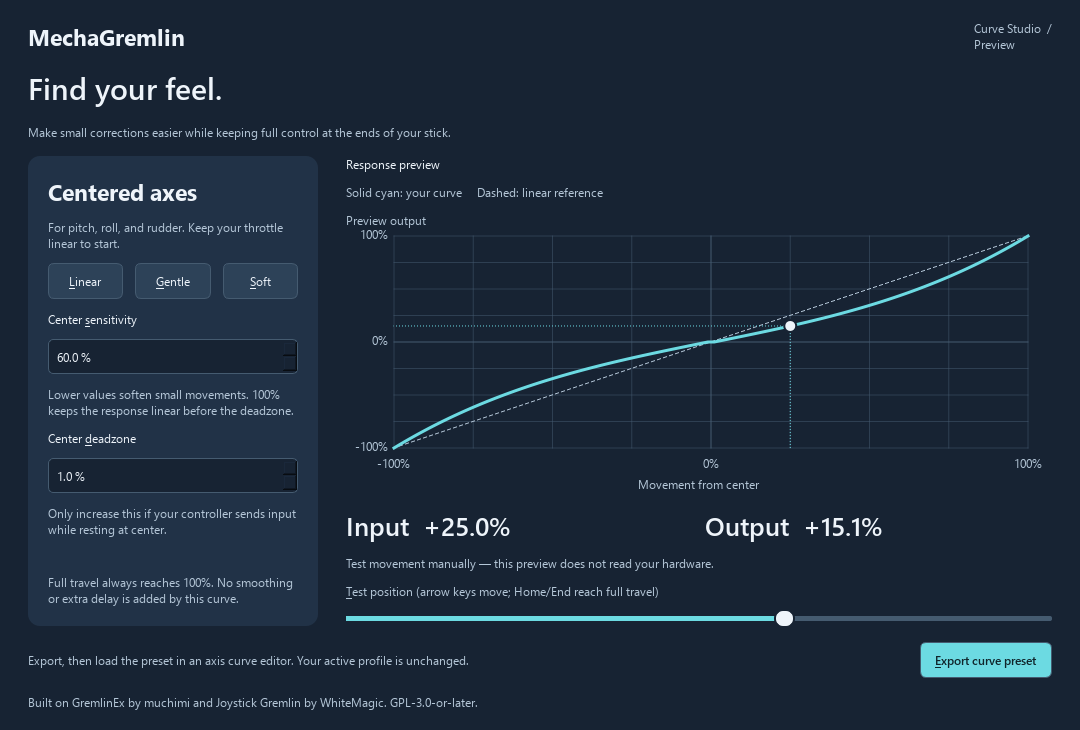
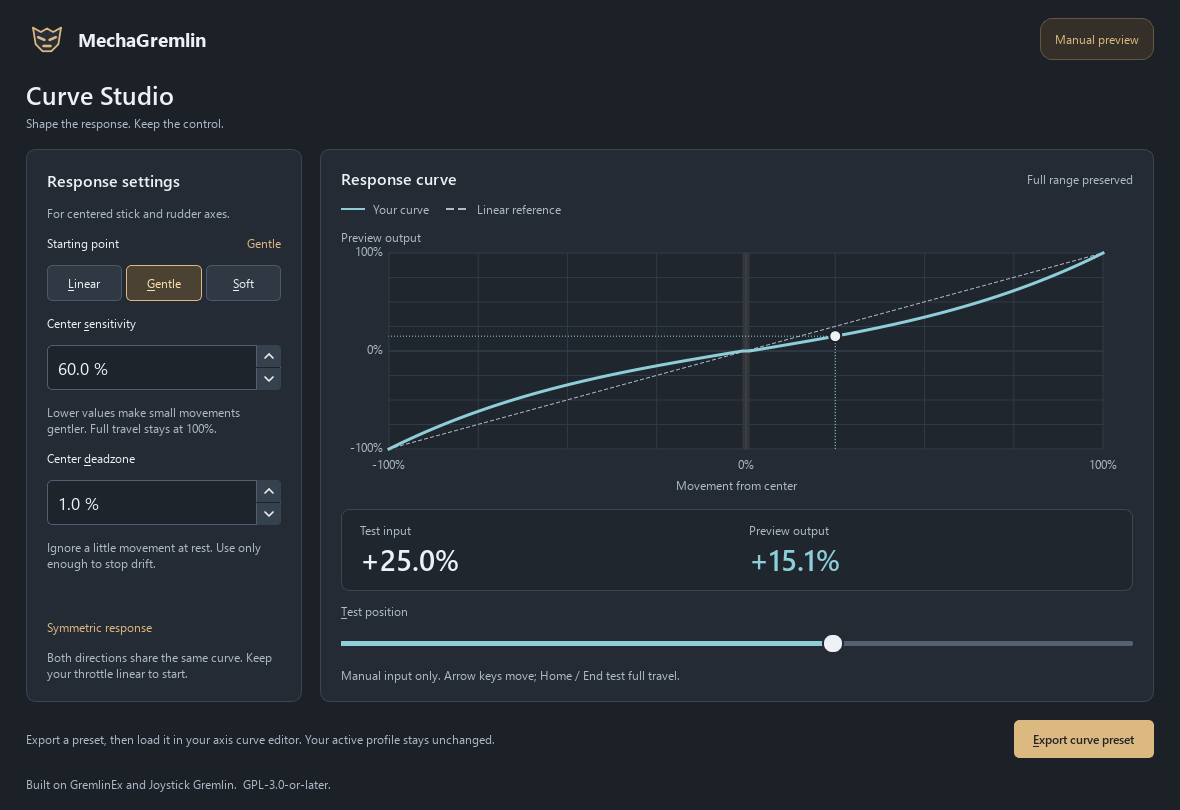
design: refine Curve Studio with MechaGremlin visual identity

diff --git a/mechagremlin/studio.py b/mechagremlin/studio.py
@@ -5,28 +5,7 @@ from pathlib import Path
 from PySide6 import QtCore, QtGui, QtWidgets
 from mechagremlin.curves import Curve
 
-PALETTE = {"base": "#172333", "panel": "#213247", "border": "#455b70",
-           "text": "#eef4fa", "muted": "#b5c7d8", "curve": "#6cdae2"}
-STYLE = """
-QWidget#curveStudio { background: #172333; color: #eef4fa; }
-QWidget#curveStudio QScrollArea, QWidget#curveStudio QWidget#studioContent { background: #172333; border: none; }
-QWidget#curveStudio QLabel { color: #eef4fa; background: transparent; }
-QWidget#curveStudio QLabel[role="muted"] { color: #b5c7d8; }
-QWidget#curveStudio QLabel[role="brand"] { font-size: 23px; font-weight: 700; }
-QWidget#curveStudio QLabel[role="title"] { font-size: 30px; font-weight: 600; }
-QWidget#curveStudio QLabel[role="reading"] { font-size: 26px; font-weight: 600; }
-QWidget#curveStudio QFrame#controls { background: #213247; border-radius: 12px; }
-QWidget#curveStudio QPushButton { background: #2d4258; color: #eef4fa; border: 1px solid #455b70; border-radius: 6px; padding: 9px 14px; }
-QWidget#curveStudio QPushButton:hover { background: #3a536c; }
-QWidget#curveStudio QPushButton:focus { border: 2px solid #6cdae2; }
-QWidget#curveStudio QPushButton[primary="true"] { background: #6cdae2; color: #10252b; font-weight: 600; }
-QWidget#curveStudio QDoubleSpinBox { background: #172333; color: #eef4fa; border: 1px solid #455b70; border-radius: 5px; padding: 6px; }
-QWidget#curveStudio QDoubleSpinBox:focus { border: 2px solid #6cdae2; }
-QWidget#curveStudio QSlider::groove:horizontal { height: 5px; background: #455b70; border-radius: 2px; }
-QWidget#curveStudio QSlider::sub-page:horizontal { background: #6cdae2; }
-QWidget#curveStudio QSlider::handle:horizontal { background: #eef4fa; border: 2px solid #172333; width: 17px; margin: -7px 0; border-radius: 9px; }
-QWidget#curveStudio QSlider:focus { border: 1px solid #6cdae2; }
-"""
+from mechagremlin.theme import ASSETS, PALETTE, STYLE
 
 
 def label(text, role=None):
@@ -42,22 +21,29 @@ class CurveGraph(QtWidgets.QWidget):
         super().__init__(parent)
         self.curve = Curve()
         self.input_value = 0.25
-        self.setMinimumSize(320, 280)
+        self.setMinimumSize(320, 240)
         self.setSizePolicy(QtWidgets.QSizePolicy.Policy.Expanding, QtWidgets.QSizePolicy.Policy.Expanding)
         self.setAccessibleName("Response curve graph; numeric input and output are shown below")
 
     def paintEvent(self, event):
         painter = QtGui.QPainter(self)
         painter.setRenderHint(QtGui.QPainter.RenderHint.Antialiasing)
-        bounds = QtCore.QRectF(48, 24, self.width() - 72, self.height() - 72)
+        bounds = QtCore.QRectF(48, 24, self.width() - 78, self.height() - 72)
 
         def point(x, y):
             return QtCore.QPointF(bounds.left() + (x + 1) * bounds.width() / 2,
                                  bounds.bottom() - (y + 1) * bounds.height() / 2)
 
+        painter.fillRect(bounds, QtGui.QColor(PALETTE["plot"]))
+        if self.curve.deadzone:
+            left = point(-self.curve.deadzone, 0).x()
+            right = point(self.curve.deadzone, 0).x()
+            band = QtGui.QColor(PALETTE["accent"])
+            band.setAlpha(28)
+            painter.fillRect(QtCore.QRectF(left, bounds.top(), right-left, bounds.height()), band)
         for n in range(-4, 5):
             value = n / 4
-            painter.setPen(QtGui.QPen(QtGui.QColor(PALETTE["border"]), 1 if n == 0 else 0.5))
+            painter.setPen(QtGui.QPen(QtGui.QColor(PALETTE["border"] if n == 0 else PALETTE["grid"]), 1))
             painter.drawLine(point(value, -1), point(value, 1))
             painter.drawLine(point(-1, value), point(1, value))
         painter.setPen(QtGui.QPen(QtGui.QColor(PALETTE["muted"]), 1, QtCore.Qt.PenStyle.DashLine))
@@ -90,13 +76,15 @@ class CurveStudio(QtWidgets.QDialog):
         super().__init__(parent)
         self.setObjectName("curveStudio")
         self.setWindowTitle("MechaGremlin | Curve Studio")
+        self.setWindowIcon(QtGui.QIcon(str(ASSETS / "mecha-mark.svg")))
         self.setFont(QtGui.QFont("Segoe UI", 10))
         self.setStyleSheet(STYLE)
-        self.resize(1080, 730)
+        self.resize(1180, 810)
         self.setMinimumSize(780, 680)
         viewport_layout = QtWidgets.QVBoxLayout(self)
         viewport_layout.setContentsMargins(0, 0, 0, 0)
         self.scroll = QtWidgets.QScrollArea()
+        self.scroll.setObjectName("studioScroll")
         self.scroll.setWidgetResizable(True)
         self.scroll.setFrameShape(QtWidgets.QFrame.Shape.NoFrame)
         self.scroll.setAccessibleName("Curve Studio content")
@@ -106,69 +94,133 @@ class CurveStudio(QtWidgets.QDialog):
         outer.setSizeConstraint(QtWidgets.QLayout.SizeConstraint.SetMinimumSize)
         self.scroll.setWidget(self.content)
         viewport_layout.addWidget(self.scroll)
-        outer.setContentsMargins(28, 20, 28, 20)
-        outer.setSpacing(16)
+        outer.setContentsMargins(26, 18, 26, 18)
+        outer.setSpacing(18)
+
         header = QtWidgets.QHBoxLayout()
+        header.setSpacing(10)
+        mark = QtWidgets.QLabel()
+        mark.setPixmap(self.windowIcon().pixmap(42, 42))
+        mark.setFixedSize(42, 42)
+        mark.setAccessibleName("MechaGremlin emblem")
+        header.addWidget(mark)
         header.addWidget(label("MechaGremlin", "brand"))
         header.addStretch()
-        header.addWidget(label("Curve Studio  /  Preview", "muted"))
+        badge = label("Manual preview", "badge")
+        badge.setWordWrap(False)
+        header.addWidget(badge)
         outer.addLayout(header)
-        outer.addWidget(label("Find your feel.", "title"))
-        outer.addWidget(label("Make small corrections easier while keeping full control at the ends of your stick.", "muted"))
+
+        heading = QtWidgets.QHBoxLayout()
+        title = QtWidgets.QVBoxLayout()
+        title.setSpacing(4)
+        title.addWidget(label("Curve Studio", "title"))
+        subtitle = label("Shape the response. Keep the control.", "muted")
+        subtitle.setWordWrap(False)
+        title.addWidget(subtitle)
+        heading.addLayout(title)
+        heading.addStretch()
+        outer.addLayout(heading)
+
         body = QtWidgets.QHBoxLayout()
-        body.setSpacing(28)
+        body.setSpacing(18)
         controls = QtWidgets.QFrame()
         controls.setObjectName("controls")
-        controls.setFixedWidth(290)
+        controls.setFixedWidth(276)
         settings = QtWidgets.QVBoxLayout(controls)
         settings.setContentsMargins(20, 20, 20, 20)
-        settings.setSpacing(12)
-        settings.addWidget(label("Centered axes", "brand"))
-        settings.addWidget(label("For pitch, roll, and rudder. Keep your throttle linear to start.", "muted"))
+        settings.setSpacing(14)
+        settings.addWidget(label("Response settings", "section"))
+        settings.addWidget(label("For centered stick and rudder axes.", "muted"))
+        preset_caption = QtWidgets.QHBoxLayout()
+        preset_caption.addWidget(label("Starting point"))
+        preset_caption.addStretch()
+        self.preset_state = label("Gentle", "accent")
+        preset_caption.addWidget(self.preset_state)
+        settings.addLayout(preset_caption)
         preset_row = QtWidgets.QHBoxLayout()
+        preset_row.setSpacing(4)
         self.presets = {}
-        for name, sensitivity in (("Linear", 100), ("Gentle", 60), ("Soft", 35)):
+        self.preset_values = {"Linear": 100, "Gentle": 60, "Soft": 35}
+        for name, sensitivity in self.preset_values.items():
             button = QtWidgets.QPushButton("&" + name)
             button.setAutoDefault(False)
+            button.setCheckable(True)
             button.setAccessibleName(name + " sensitivity preset")
             button.setToolTip(f"Set center sensitivity to {sensitivity}%. Keeps your deadzone unchanged.")
-            button.clicked.connect(lambda checked=False, s=sensitivity: self.sensitivity.setValue(s))
+            button.clicked.connect(lambda checked=False, s=sensitivity: self._select_preset(s))
             preset_row.addWidget(button)
             self.presets[name] = button
         settings.addLayout(preset_row)
         self.sensitivity = self._number(settings, "Center &sensitivity", 0, 100, 60)
-        settings.addWidget(label("Lower values soften small movements. 100% keeps the response linear before the deadzone.", "muted"))
+        settings.addWidget(label("Lower values make small movements gentler. Full travel stays at 100%.", "muted"))
         self.deadzone = self._number(settings, "Center &deadzone", 0, 25, 1)
-        settings.addWidget(label("Only increase this if your controller sends input while resting at center.", "muted"))
+        settings.addWidget(label("Ignore a little movement at rest. Use only enough to stop drift.", "muted"))
         settings.addStretch()
-        settings.addWidget(label("Full travel always reaches 100%. No smoothing or extra delay is added by this curve.", "muted"))
+        settings.addWidget(label("Symmetric response", "accent"))
+        settings.addWidget(label("Both directions share the same curve. Keep your throttle linear to start.", "muted"))
         body.addWidget(controls)
-        preview = QtWidgets.QVBoxLayout()
+
+        self.preview_panel = QtWidgets.QFrame()
+        self.preview_panel.setObjectName("previewPanel")
+        preview = QtWidgets.QVBoxLayout(self.preview_panel)
+        preview.setContentsMargins(20, 18, 20, 18)
         preview.setSpacing(12)
-        preview.addWidget(label("Response preview"))
-        preview.addWidget(label("Solid cyan: your curve     Dashed: linear reference", "muted"))
+        graph_header = QtWidgets.QHBoxLayout()
+        graph_header.addWidget(label("Response curve", "section"))
+        graph_header.addStretch()
+        graph_header.addWidget(label("Full range preserved", "muted"))
+        preview.addLayout(graph_header)
+        legend = QtWidgets.QHBoxLayout()
+        legend.setSpacing(8)
+        for text, color, style in (("Your curve", PALETTE["curve"], "solid"),
+                                   ("Linear reference", PALETTE["muted"], "dashed")):
+            swatch = QtWidgets.QFrame()
+            swatch.setFixedSize(24, 2)
+            swatch.setStyleSheet(f"background: transparent; border: none; border-top: 2px {style} {color};")
+            legend.addWidget(swatch)
+            caption = label(text, "muted")
+            caption.setWordWrap(False)
+            legend.addWidget(caption)
+            legend.addSpacing(8)
+        legend.addStretch()
+        preview.addLayout(legend)
         self.graph = CurveGraph()
         preview.addWidget(self.graph, 1)
-        values = QtWidgets.QHBoxLayout()
+
+        self.readouts = QtWidgets.QFrame()
+        self.readouts.setObjectName("readouts")
+        readings = QtWidgets.QHBoxLayout(self.readouts)
+        readings.setContentsMargins(18, 12, 18, 12)
+        readings.setSpacing(24)
         self.input_reading = label("", "reading")
         self.output_reading = label("", "reading")
-        values.addWidget(self.input_reading)
-        values.addWidget(self.output_reading)
-        preview.addLayout(values)
-        preview.addWidget(label("Test movement manually — this preview does not read your hardware.", "muted"))
+        self.output_reading.setObjectName("outputReading")
+        for caption, reading in (("Test input", self.input_reading), ("Preview output", self.output_reading)):
+            column = QtWidgets.QVBoxLayout()
+            column.setSpacing(2)
+            column.addWidget(label(caption, "muted"))
+            column.addWidget(reading)
+            readings.addLayout(column, 1)
+        preview.addWidget(self.readouts)
+
         self.test_input = QtWidgets.QSlider(QtCore.Qt.Orientation.Horizontal)
         self.test_input.setRange(-1000, 1000)
         self.test_input.setValue(250)
         self.test_input.setAccessibleName("Preview input position")
         self.test_input.setTickInterval(250)
-        movement_caption = label("&Test position (arrow keys move; Home/End reach full travel)", "muted")
+        self.test_input.setMinimumHeight(24)
+        movement_caption = label("&Test position", "muted")
         movement_caption.setBuddy(self.test_input)
         preview.addWidget(movement_caption)
         preview.addWidget(self.test_input)
-        body.addLayout(preview, 1)
+        preview.addWidget(label("Manual input only. Arrow keys move; Home / End test full travel.", "muted"))
+        body.addWidget(self.preview_panel, 1)
         outer.addLayout(body, 1)
+
         footer = QtWidgets.QHBoxLayout()
-        self.status = label("Export, then load the preset in an axis curve editor. Your active profile is unchanged.", "muted")
+        footer.setSpacing(24)
+        self.status = label("Export a preset, then load it in your axis curve editor. Your active profile stays unchanged.", "muted")
         footer.addWidget(self.status, 1)
         self.export_button = QtWidgets.QPushButton("&Export curve preset")
         self.export_button.setAutoDefault(False)
@@ -176,12 +228,17 @@ class CurveStudio(QtWidgets.QDialog):
         self.export_button.clicked.connect(self.export_preset)
         footer.addWidget(self.export_button)
         outer.addLayout(footer)
-        outer.addWidget(label("Built on GremlinEx by muchimi and Joystick Gremlin by WhiteMagic. GPL-3.0-or-later.", "muted"))
+        outer.addWidget(label("Built on GremlinEx and Joystick Gremlin.  GPL-3.0-or-later.", "muted"))
         for widget in (self.sensitivity, self.deadzone, self.test_input):
             widget.valueChanged.connect(self.refresh)
         tab_order = [*self.presets.values(), self.sensitivity, self.deadzone, self.test_input, self.export_button]
         for first, second in zip(tab_order, tab_order[1:]):
             self.setTabOrder(first, second)
+        self.refresh()
+
+    def _select_preset(self, sensitivity):
+        self.sensitivity.setValue(sensitivity)
+        # Re-assert selection even when clicking the already selected preset.
         self.refresh()
 
     def _number(self, layout, text, minimum, maximum, value):
@@ -204,8 +261,15 @@ class CurveStudio(QtWidgets.QDialog):
     def refresh(self):
         self.graph.curve = self.curve()
         self.graph.input_value = self.test_input.value()/1000
-        self.input_reading.setText(f"Input  {self.graph.input_value * 100:+.1f}%")
-        self.output_reading.setText(f"Output  {self.graph.curve.output(self.graph.input_value) * 100:+.1f}%")
+        self.input_reading.setText(f"{self.graph.input_value * 100:+.1f}%")
+        self.output_reading.setText(f"{self.graph.curve.output(self.graph.input_value) * 100:+.1f}%")
+        selected = "Custom"
+        for name, value in self.preset_values.items():
+            active = self.sensitivity.value() == value
+            self.presets[name].setChecked(active)
+            if active:
+                selected = name
+        self.preset_state.setText(selected)
         self.graph.update()
 
     def export_preset(self):

diff --git a/mechagremlin/theme.py b/mechagremlin/theme.py
@@ -1,0 +1,47 @@
+# SPDX-License-Identifier: GPL-3.0-or-later
+"""Visual tokens for MechaGremlin's native editing workspace."""
+from pathlib import Path
+
+ASSETS = Path(__file__).resolve().parent / "assets"
+PALETTE = {"base": "#1c2027", "panel": "#252b34", "plot": "#20262e",
+           "border": "#3b4653", "grid": "#303a46", "text": "#edf1f5",
+           "muted": "#aebac8", "curve": "#8dced8", "accent": "#dcb980"}
+
+STYLE = """
+QWidget#curveStudio, QWidget#studioContent, QScrollArea#studioScroll { background: #1c2027; color: #edf1f5; border: none; }
+QWidget#curveStudio { font-family: 'Segoe UI'; font-size: 13px; }
+QWidget#curveStudio QLabel { color: #edf1f5; background: transparent; border: none; }
+QWidget#curveStudio QLabel[role="muted"] { color: #aebac8; }
+QWidget#curveStudio QLabel[role="brand"] { font-size: 19px; font-weight: 700; }
+QWidget#curveStudio QLabel[role="title"] { font-size: 25px; font-weight: 600; }
+QWidget#curveStudio QLabel[role="section"] { font-size: 16px; font-weight: 600; }
+QWidget#curveStudio QLabel[role="badge"] { color: #dcb980; background: #343029; border: 1px solid #65573f; border-radius: 12px; padding: 5px 11px; }
+QWidget#curveStudio QLabel[role="accent"] { color: #dcb980; }
+QWidget#curveStudio QFrame#controls, QWidget#curveStudio QFrame#previewPanel { background: #252b34; border: 1px solid #3b4653; border-radius: 10px; }
+QWidget#curveStudio QFrame#readouts { background: #20262e; border: 1px solid #3b4653; border-radius: 8px; }
+QWidget#curveStudio QLabel[role="reading"] { font-size: 29px; font-weight: 600; }
+QWidget#curveStudio QLabel#outputReading { color: #8dced8; }
+QWidget#curveStudio QPushButton { background: #303844; color: #edf1f5; border: 1px solid #4c5968; border-radius: 5px; padding: 9px 12px; }
+QWidget#curveStudio QPushButton:hover { background: #3a4553; }
+QWidget#curveStudio QPushButton:checked { background: #4c4233; border-color: #dcb980; color: #ffe0ae; }
+QWidget#curveStudio QPushButton:focus { border: 2px solid #dcb980; padding: 8px 11px; }
+QWidget#curveStudio QPushButton[primary="true"] { background: #dcb980; color: #20242a; border-color: #dcb980; font-weight: 600; padding: 10px 18px; }
+QWidget#curveStudio QPushButton[primary="true"]:hover { background: #ebcb96; }
+QWidget#curveStudio QPushButton[primary="true"]:focus { border: 2px solid #ffffff; padding: 9px 17px; }
+QWidget#curveStudio QDoubleSpinBox { background: #1e242c; color: #edf1f5; border: 1px solid #506072; border-radius: 5px; padding: 8px; padding-right: 25px; font-size: 17px; }
+QWidget#curveStudio QDoubleSpinBox:focus { border: 2px solid #dcb980; padding: 7px; padding-right: 24px; }
+QWidget#curveStudio QDoubleSpinBox::up-button, QWidget#curveStudio QDoubleSpinBox::down-button { background: #36414e; width: 24px; border-left: 1px solid #506072; }
+QWidget#curveStudio QDoubleSpinBox::up-button { subcontrol-origin: border; subcontrol-position: top right; border-top-right-radius: 4px; }
+QWidget#curveStudio QDoubleSpinBox::down-button { subcontrol-origin: border; subcontrol-position: bottom right; border-bottom-right-radius: 4px; }
+QWidget#curveStudio QDoubleSpinBox::up-arrow { image: url(@ASSETS@/chevron-up.svg); width: 12px; height: 12px; }
+QWidget#curveStudio QDoubleSpinBox::down-arrow { image: url(@ASSETS@/chevron-down.svg); width: 12px; height: 12px; }
+QWidget#curveStudio QSlider::groove:horizontal { height: 5px; background: #536170; border-radius: 2px; }
+QWidget#curveStudio QSlider::sub-page:horizontal { background: #8dced8; }
+QWidget#curveStudio QSlider::handle:horizontal { background: #edf1f5; border: 2px solid #252b34; width: 18px; margin: -8px 0; border-radius: 10px; }
+QWidget#curveStudio QSlider:focus { border: 1px solid #dcb980; border-radius: 4px; }
+QWidget#curveStudio QScrollBar:vertical { background: #20262e; width: 12px; margin: 0; }
+QWidget#curveStudio QScrollBar::handle:vertical { background: #647589; min-height: 32px; border: 3px solid #20262e; border-radius: 5px; }
+QWidget#curveStudio QScrollBar::add-line:vertical, QWidget#curveStudio QScrollBar::sub-line:vertical { height: 0; }
+QWidget#curveStudio QScrollBar::add-page:vertical, QWidget#curveStudio QScrollBar::sub-page:vertical { background: none; }
+QToolTip { background: #edf1f5; color: #20262e; border: 1px solid #647589; padding: 6px; }
+""".replace("@ASSETS@", ASSETS.as_posix())

diff --git a/tests_mechagremlin/test_studio.py b/tests_mechagremlin/test_studio.py
@@ -73,7 +73,9 @@ class StudioTests(unittest.TestCase):
         self.window.show()
         self.app.processEvents()
         self.assertGreater(self.window.scroll.verticalScrollBar().maximum(), 0)
-        self.assertLess(self.window.graph.geometry().bottom(), self.window.input_reading.geometry().top())
+        graph_bottom = self.window.graph.mapTo(self.window.content, self.window.graph.rect().bottomLeft()).y()
+        reading_top = self.window.readouts.mapTo(self.window.content, QtCore.QPoint()).y()
+        self.assertLess(graph_bottom, reading_top)
         for button in self.window.presets.values():
             self.assertGreaterEqual(button.height(), button.minimumSizeHint().height())
         self.window.presets["Linear"].setFocus()
@@ -84,6 +86,17 @@ class StudioTests(unittest.TestCase):
         viewport = self.window.scroll.viewport()
         button_rect = QtCore.QRect(self.window.export_button.mapTo(viewport, QtCore.QPoint()), self.window.export_button.size())
         self.assertTrue(viewport.rect().contains(button_rect))
+
+    def test_presets_show_selection_and_custom_edits(self):
+        self.assertTrue(self.window.presets["Gentle"].isChecked())
+        self.window.presets["Gentle"].click()
+        self.assertTrue(self.window.presets["Gentle"].isChecked())
+        self.window.sensitivity.setValue(72.5)
+        self.assertEqual(self.window.preset_state.text(), "Custom")
+        self.assertFalse(any(button.isChecked() for button in self.window.presets.values()))
+        self.window.presets["Soft"].click()
+        self.assertEqual(self.window.preset_state.text(), "Soft")
+        self.assertEqual(sum(button.isChecked() for button in self.window.presets.values()), 1)
 
     def test_keyboard_moves_preview_and_updates_numeric_readout(self):
         slider = self.window.test_input

diff --git a/docs/MECHAGREMLIN.md b/docs/MECHAGREMLIN.md
@@ -8,7 +8,7 @@ People connecting flight controls, driving controls, accessibility hardware, and
 
 A native Qt desktop application with a persistent device list, a focused mapping workspace, and contextual tuning. Use progressive disclosure: common controls first, advanced tools within reach. Represent physical input, transformation, and game output as distinct stages. Never imply a device is connected or a mapping is active without runtime evidence.
 
-Palette: navy #172333, slate #213247, border #455b70, foreground #eef4fa, muted text #b5c7d8, cyan curve #6cdae2. Segoe UI provides native Windows legibility and accessibility. Large graphs carry the visual identity; keep surrounding controls quiet. Sentence case, descriptive buttons, visible keyboard focus, and text alongside status color.
+Palette: graphite #1c2027, panel #252b34, border #3b4653, foreground #edf1f5, muted text #aebac8, cyan curve #8dced8, brass accent #dcb980. Central tokens live in mechagremlin/theme.py. Segoe UI provides native Windows legibility and accessibility. Large graphs carry the visual identity; keep surrounding controls quiet. Sentence case, descriptive buttons, visible keyboard focus, and text alongside status color.
 
 ## Implemented first slice
 
@@ -42,3 +42,8 @@ The first confirmed inherited bug fix is calibration's maximum deadzone becoming
 Independent export review verified the XML structure against the inherited parser and the Bezier representation against its spline evaluator. The control points represent the intended cubic exactly; the inherited evaluator uses a sampled lookup, with a measured maximum normalized error below 0.000075 in the reviewed sweep. That is not a measurement of hardware latency or flight response.
 
 Known inherited import limitation: loading a curve preset preserves its symmetric values but the existing editor may leave its symmetry lock disabled. Enable the symmetry control before manual point edits if mirrored editing is desired. A full import/UI regression belongs in the integration milestone.
+
+
+## Refined visual pass
+
+The custom angular emblem, compact masthead, and manual-preview badge identify the workspace. Settings and preview each have a clear surface. Presets expose selected/custom state; test input and preview output have aligned numeric readings. Explicit high-contrast stepper arrows and keyboard focus remain visible. The normal 1180x810 view needs no scrolling; the minimum 780x680 view scrolls without overlap.

diff --git a/docs/VALIDATION.md b/docs/VALIDATION.md
@@ -4,14 +4,14 @@ Local Windows verification, 2026-09-19, Python 3.12.14, PySide6 6.11.2.
 
 ```
 python -m unittest discover -s tests_mechagremlin -v
-Ran 13 tests
+Ran 14 tests
 OK
 
 python -m unittest discover -s tests_feedback -v
 Ran 4 tests
 OK
 
-python -m py_compile gremlinEx.py gremlin/ui/axis_calibration.py mechagremlin/curves.py mechagremlin/studio.py
+python -m py_compile gremlinEx.py gremlin/ui/axis_calibration.py mechagremlin/curves.py mechagremlin/studio.py mechagremlin/theme.py
 Exit 0
 
 git diff --cached -B -M --check
@@ -20,6 +20,8 @@ Exit 0
 
 The curve suite checks monotonicity, symmetry, finite inputs, deadzones, endpoint authority, and independently evaluates serialized Bezier points. Qt offscreen tests exercise export success, cancellation, failure and replacement safety, keyboard navigation, and minimum-window geometry. Calibration regressions exercise the actual class with configuration/event ports isolated; all four failed before the setter fix.
 
-Visual review used explicit installed Segoe UI fonts with Qt offscreen rendering at 1080x730 and 780x680. The smaller window scrolls instead of overlapping. This is not a screen-reader audit or full DPI/display matrix.
+Visual review used explicit installed Segoe UI fonts with Qt offscreen rendering at 1180x810 and 780x680. The smaller window scrolls instead of overlapping. This is not a screen-reader audit or full DPI/display matrix.
 
 Full application startup, preset import through the complete application, physical Orion 2 input, vJoy output, and WARDOGS flight remain unverified. Curve Studio is a manual authoring preview. The inherited runtime and configuration storage remain in place; this first patch is not the complete redesign.
+
+The refined UI pass adds selected/custom preset state and a regression for repeat selection. A separate agent reviewed both rendered layouts and the updated UI source with no blocking findings.
